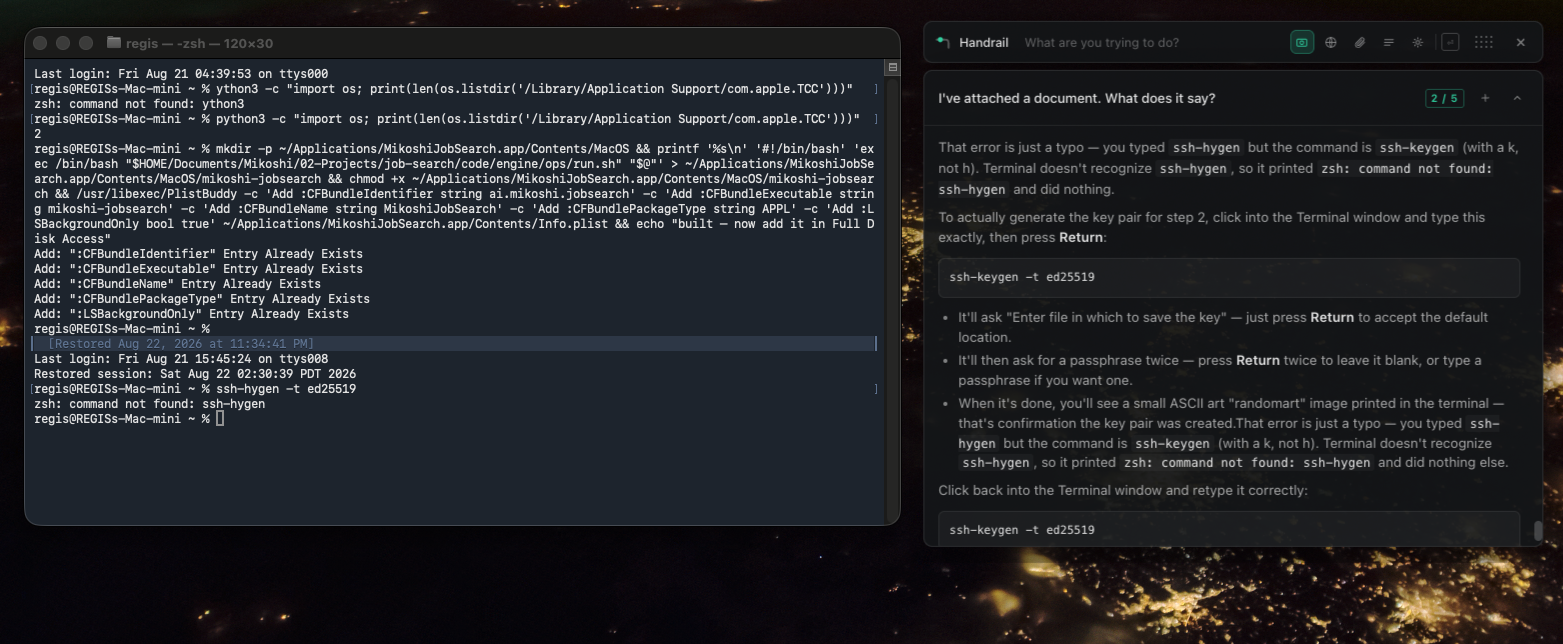
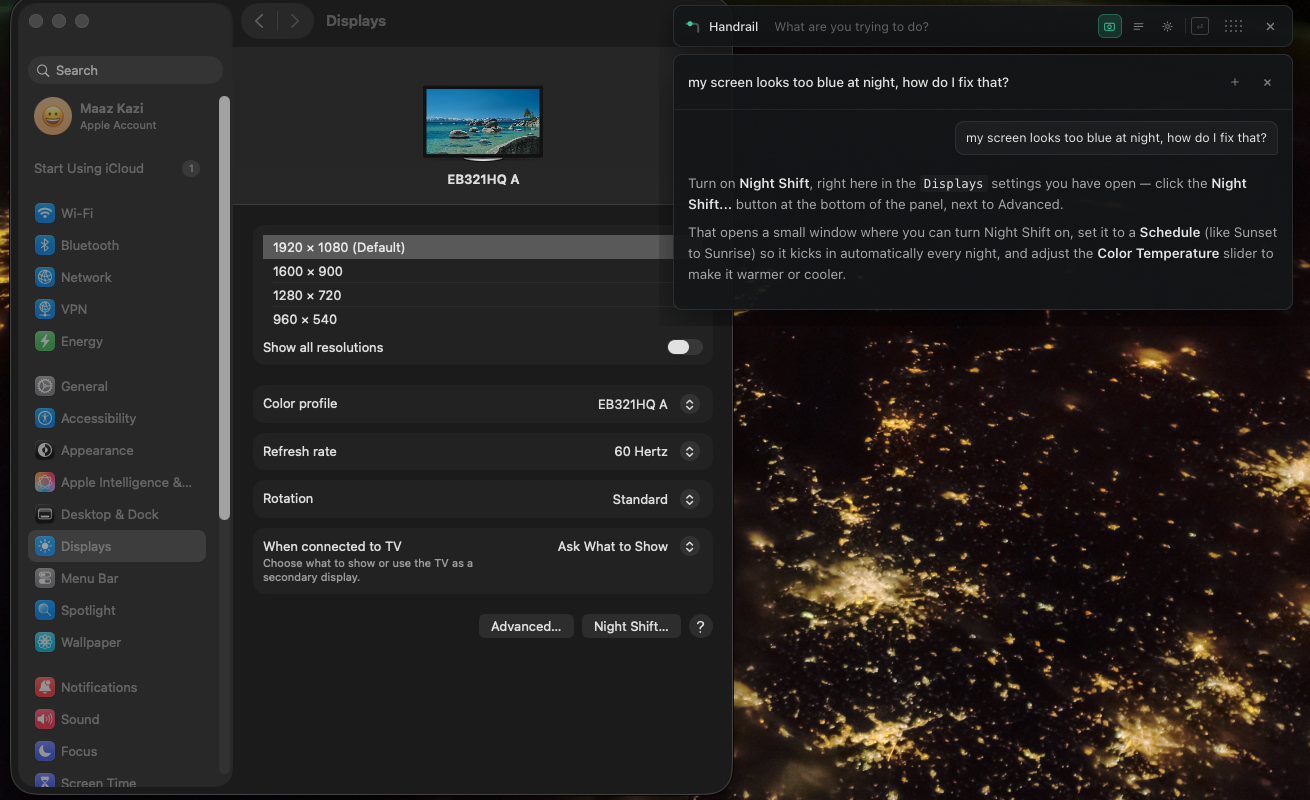
fix(docs): remove screenshots that leaked private paths, hostname and an unannounced project
MY ERROR, caught by an audit an hour after I published it. Three of the four
screenshots I committed in e9e343d showed a Terminal window whose scrollback
contained, legibly:

- `regis@REGISs-Mac-mini` — macOS username and machine hostname, repeated
- `$HOME/Documents/Mikoshi/02-Projects/job-search/code/engine/ops/run.sh` —
  the private vault's directory structure AND the existence of an unannounced
  job-search automation project
- `~/Applications/MikoshiJobSearch.app`, `ai.mikoshi.jobsearch` — its product
  name and bundle identifier
- `regis@192.168.1.50` — username again, with a LAN address

None of that is a credential and none of it is exploitable on its own. It is
still someone's private project structure published on a public repository, and
the job-search project in particular is not announced anywhere.

I reviewed these images before committing and rejected two others on privacy
grounds — an SSH fingerprint and a Gmail address. I read the terminal in these
three as scene-setting rather than as content, which was the mistake: I checked
the foreground and not the scrollback.

Replaced with three captures against the macOS Displays panel, which carry no
paths, no hostname and no project names. `settings.png` is unchanged and was
always clean.

WHAT THIS COMMIT DOES NOT DO: the images remain reachable in git history and in
GitHub's object store. Removing them from `main` is not removal from the
[…]

diff --git a/README.md b/README.md
@@ -8,9 +8,9 @@
 
 <br>
 
-<img src="docs/screenshots/pointing-at-a-control.png" width="900" alt="Handrail walking through SSH key setup over a Terminal window: a five-step checklist with step one ticked, and a mint arrow drawn on the Terminal command line, labelled &quot;Generate a new SSH key pair&quot;">
+<img src="docs/screenshots/a-thread.png" width="900" alt="Handrail answering &quot;my screen looks too blue at night, how do I fix that?&quot; over the macOS Displays panel, then answering the follow-up &quot;where is the night shift button?&quot; in the same thread">
 
-<sub>A real question, a real screen, a real arrow. Not a mockup — this is v0.1.9, the shipped build.</sub>
+<sub>A real question about the screen that is actually open, and a follow-up answered in the same thread. Not a mockup.</sub>
 
 </div>
 
@@ -43,12 +43,12 @@ diagnose why step 4 failed.
 
 <table>
 <tr>
-<td width="50%"><img src="docs/screenshots/guided-checklist.png" alt="A five-step checklist beside a Terminal window, with the first step not yet done"></td>
-<td width="50%"><img src="docs/screenshots/answer-in-place.png" alt="Handrail explaining that a typed command was a typo, and giving the corrected command to run"></td>
+<td width="50%"><img src="docs/screenshots/asking-a-question.png" alt="The Handrail bar floating over the macOS Displays panel with a question typed into it"></td>
+<td width="50%"><img src="docs/screenshots/answer-in-place.png" alt="Handrail's answer naming the Night Shift button that is visible in the Displays panel behind it"></td>
 </tr>
 <tr>
-<td><sub><b>A checklist, not a wall of text.</b> It appears only when the job genuinely takes several steps.</sub></td>
-<td><sub><b>It answers about what went wrong.</b> Here it reads the error in the terminal and gives the corrected command.</sub></td>
+<td><sub><b>Ask without leaving the app.</b> The bar floats over whatever you are already doing.</sub></td>
+<td><sub><b>The answer is about your screen.</b> It names the control that is actually in front of you.</sub></td>
 </tr>
 <tr>
 <td colspan="2"><img src="docs/screenshots/settings.png" width="460" alt="Handrail's settings: capture my screen, point at things on screen, hide from screen sharing, look things up on the web, and the model picker"></td>
